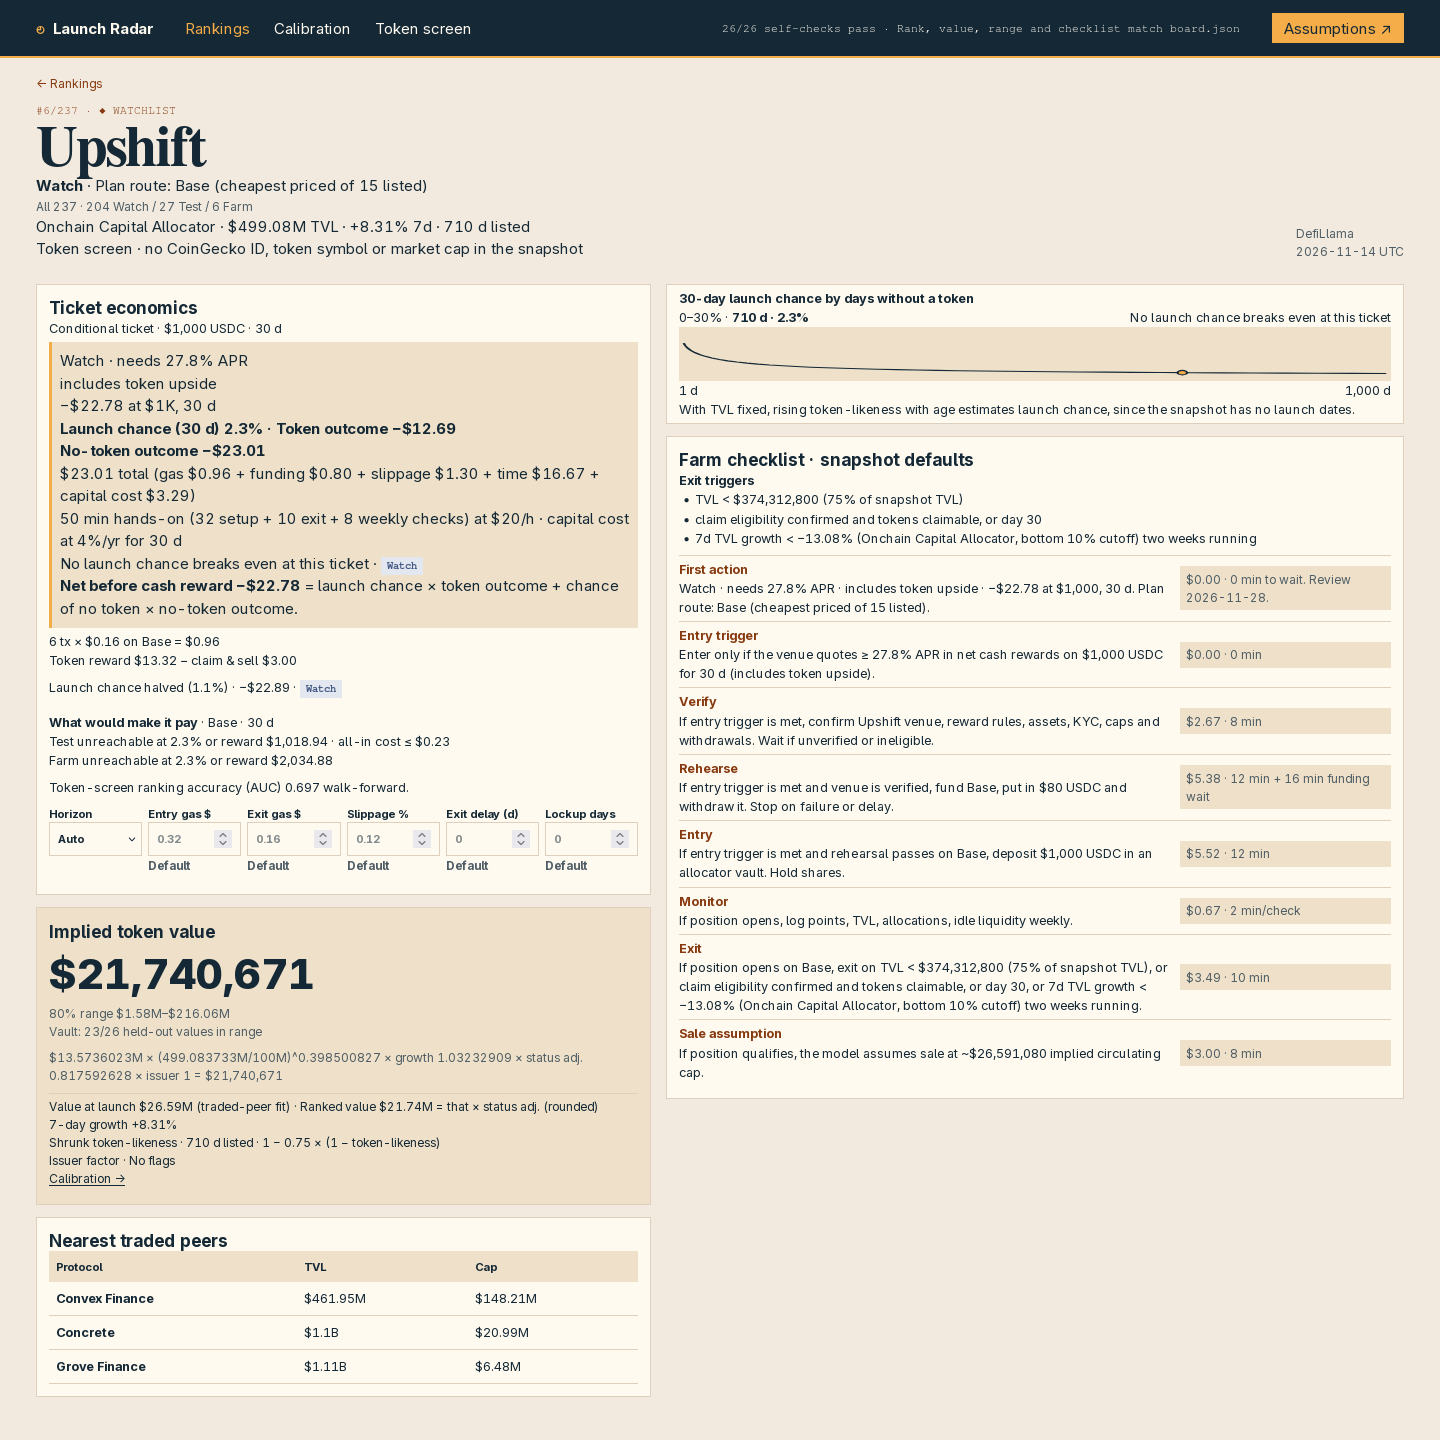
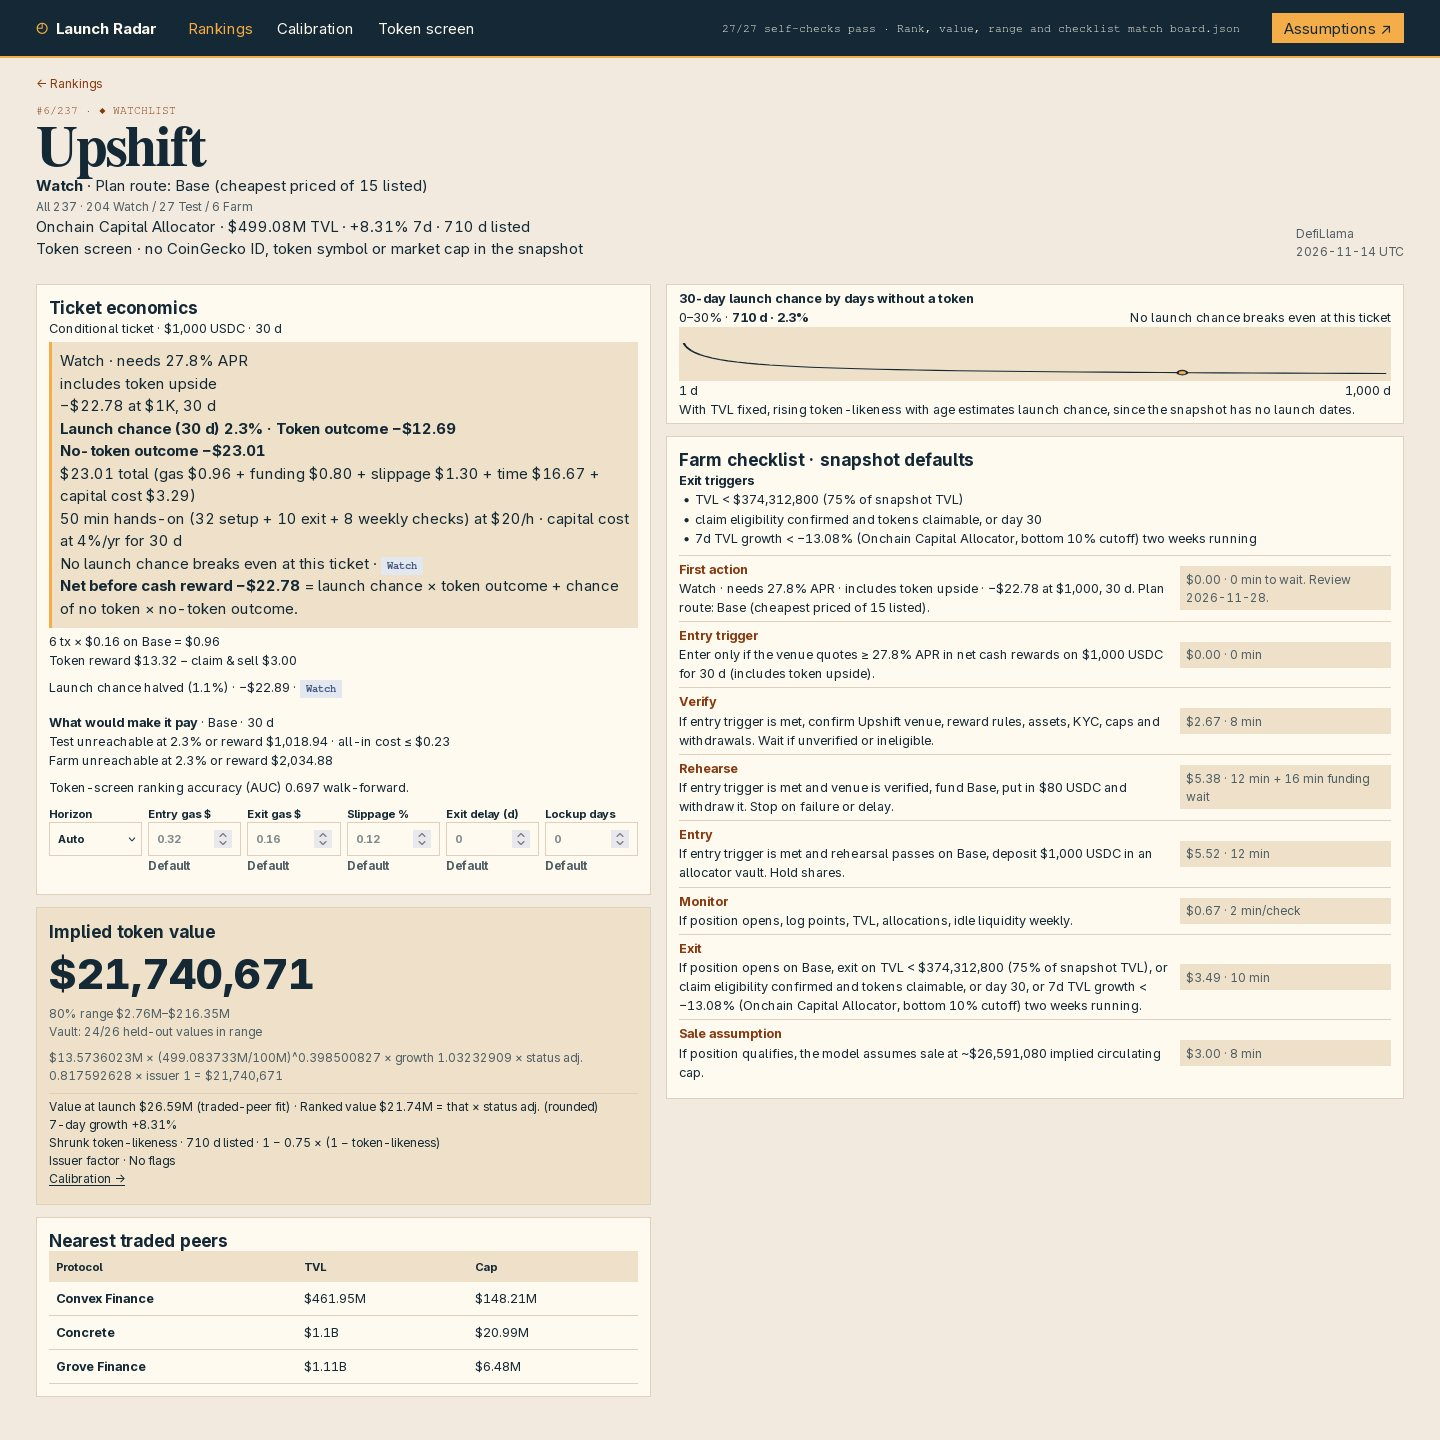
Ranges fitted on the shipped score per family; full per-term ablation
Per-family 80% ranges from training-only residuals of the shipped value (coverage 68% walk-forward 27/40, 78% family 68/87). Drop-one tests remove the term from both the cap fit and the token-likeness fit (TVL 4.015x/3.740x, growth 2.581x/3.229x, age 2.288x/3.180x vs full 2.440x/3.149x). Ranks and values unchanged; 27/27 self-checks.

diff --git a/dashboard/model.js b/dashboard/model.js
@@ -201,8 +201,8 @@ function accum({matrix,target},x,residual,weight=1){
 }
 
 function fitValue(pts,form,omit){
-	const age=form==="direct"||form==="pooled"?medianAge(pts):0,
-		families=form==="pooled"?unique(pts.map(p=>p.family)):[],
+	const age=omit!=="age"&&(form==="direct"||form==="pooled")?medianAge(pts):0,
+		families=age&&form==="pooled"?unique(pts.map(p=>p.family)):[],
 		shrink=sqrt(pts.length),fit={age,families,omit},
 		eq=normal([1e-8,1e-8+shrink,...(age?[shrink,...families.map(()=>4*shrink)]:[])])
 	for(const p of pts) accum(eq,capInputs(fit,p),p.response)
@@ -233,14 +233,28 @@ function folds(pts,walk,warmup=A.capWarmup){
 
 const blindTests=["loo","walk"]
 const medianMiss=es=>es.length?exp(quant(es.map(abs))):null
-const inside=(e,[lo,hi])=>lo<=e&&e<=hi,
-	band=[.1,.9],bandPct=round(100*(band[1]-band[0]))
-function fitBand(pts,form,levels=band){
-	const errors=folds(pts).flatMap(([train,test])=>{
-		const fit=fitValue(train,form)
-		return test.map(p=>p.response-capLog(fit,p))
-	})
-	return errors.length?levels.map(q=>quant(errors,q)):null
+const bandPct=80,levels=[.1,.9,.25,.75],byFamily=rs=>groupBy(rs,p=>p.family),
+	bandKind=(groups,f)=>groups[f]?.length>=8?f:"Other",
+	bandFor=(bounds,f)=>bounds[f]??bounds.Pooled
+function fitBands(rows){
+	const groups=byFamily(rows),kinds=groupBy(rows,r=>bandKind(groups,r.family)),
+		errors=rows.map(r=>r.shipped),pooled=levels.map(q=>quant(errors,q)??0),
+		local=record(keys(kinds),k=>{
+			const es=kinds[k].map(r=>r.shipped),n=es.length
+			return levels.map((q,i)=>(n*quant(es,q)+8*pooled[i])/(n+8))
+		})
+	return {...record(keys(groups),f=>local[bandKind(groups,f)]),Pooled:pooled}
+}
+function coverageFor(folds,groups){
+	const result={Pooled:{n:0,hits:0}}
+	for(const f of folds) if(f.inner.length) for(const {family,shipped} of f.rows){
+		const [lo,hi]=bandFor(f.bounds,family),kind=bandKind(groups,family)
+		for(const s of [result.Pooled,result[kind]??={n:0,hits:0}]){
+			s.n++
+			s.hits+=lo<=shipped&&shipped<=hi
+		}
+	}
+	return result
 }
 const forms={current:"Full token-likeness",direct:"Age power on cap",pooled:"Family-pooled age power",shrink:"Shrunk token-likeness"},
 	outerTerms={tvl:"TVL",growth:"7d growth",age:"Age"},
@@ -250,7 +264,7 @@ const forms={current:"Full token-likeness",direct:"Age power on cap",pooled:"Fam
 	splitsFor=(pts,k,warmup)=>k==="walk"?folds(pts,true,warmup):leaveOut(pts,p=>p.family),
 	mixFor=(form,w)=>form==="current"?1:form==="shrink"?w:0,
 	ageMul=(s,w)=>1-w*(1-s),
-	errFor=(fit,[p,s,h],w)=>p.response-log(score(exp(capLog(fit,p)),ageMul(s,w),h))
+	errFor=(fit,p,s,h,w)=>p.response-log(score(exp(capLog(fit,p)),ageMul(s,w),h))
 function training(test,recs,k){
 	const held=new Set(test.map(tokenKey))
 	return recs.filter(p=>!held.has(tokenKey(p))&&
@@ -260,20 +274,23 @@ function valueFolds(pts,recs,cache,warmup){
 	return record(schemes,k=>splitsFor(pts,k,warmup).map(([train,test])=>{
 		const eligible=training(test,recs,k),ratio=quant(train.map(p=>p.mcap_usd/p.tvl_usd)),
 			screen=eligible.filter(p=>!p.product),key=screen.map(p=>p.slug).join("\n"),
-			odds=cache.get(key)??fitOdds(screen),words=issuers(eligible)
+			odds=cache.get(key)??record(["full","tvl","age"],t=>fitOdds(screen,t)),words=issuers(eligible)
 		cache.set(key,odds)
-		return{family:test[0].family,train,eligible,
-			inputs:test.map(p=>[p,tokenOdds(odds,p),flagsFor(p,words).length?A.haircut:1]),
-			rows:test.map(p=>({slug:p.slug,flat:p.response-log(p.tvl_usd*ratio)}))}
+		return{train,eligible,odds,
+			inputs:test.map(p=>[p,tokenOdds(odds.full,p),flagsFor(p,words).length?A.haircut:1]),
+			rows:test.map(p=>({family:p.family,flat:p.response-log(p.tvl_usd*ratio)}))}
 	}))
 }
 const capForms=["current","direct","pooled"]
-function scoreFold({train,inputs,rows},kinds,omit){
-	const current=fitValue(train,"current",omit)
+function scoreRows({inputs,rows,odds},fit,w,key){
+	const screen=odds[fit.omit]
+	inputs.forEach(([p,s,h],i)=>rows[i][key]=errFor(fit,p,screen?tokenOdds(screen,p):s,h,w))
+}
+function scoreFold(fold,kinds,omit){
+	const current=fitValue(fold.train,"current",omit)
 	for(const k of kinds){
-		const fit=k==="direct"||k==="pooled"?fitValue(train,k,omit):current,
-			w=omit==="age"?0:k==="current"?1:+k||0
-		inputs.forEach((input,i)=>rows[i][k]=errFor(fit,input,w))
+		const fit=k==="direct"||k==="pooled"?fitValue(fold.train,k,omit):current
+		scoreRows(fold,fit,k==="current"?1:+k||0,k)
 	}
 }
 const foldRows=fs=>fs.flatMap(f=>f.rows),
@@ -286,23 +303,24 @@ const foldRows=fs=>fs.flatMap(f=>f.rows),
 	chooseForm=({flat,...scores})=>keys(scores).filter(f=>schemes.every(k=>scores[f]?.[k]!=null&&scores[f][k]<flat[k]))
 		.sort((a,b)=>scores[a].pooled-scores[b].pooled)[0]
 function innerScores(folds,omit){
-	const kinds=omit==="age"?["current"]:[...capForms,...weights]
+	const kinds=[...capForms,...weights]
 	for(const fold of values(folds).flat()) scoreFold(fold,kinds,omit)
 	return scoresFor(folds,["flat",...kinds])
 }
 const bestWeight=(scores,k)=>scores[weights[0]]?.[k]==null?.5:
 	weights.reduce((a,b)=>scores[b][k]<scores[a][k]?b:a)
-function confirm({train,inputs,rows},scores,omit){
+function confirm(fold,scores,omit){
 	const w=bestWeight(scores,"pooled"),{current,direct,pooled,flat}=scores,
 		form=chooseForm({current,direct,pooled,shrink:scores[w],flat})??"current",
-		fit=fitValue(train,form,omit),
-		weight=omit==="age"?0:mixFor(form,w)
-	inputs.forEach((input,i)=>rows[i][omit??"confirmed"]=errFor(fit,input,weight))
+		fit=fitValue(fold.train,form,omit)
+	if(omit) (fold.drop??={})[omit]=fit
+	scoreRows(fold,fit,mixFor(form,w),omit??"confirmed")
 }
 function valueTest(pts,recs){
 	const cache=new Map,tests=valueFolds(pts,recs,cache)
 	for(const [k,folds] of entries(tests)) for(const fold of folds){
 		const inner=valueFolds(fold.train,fold.eligible,cache,12),scores=innerScores(inner),w=bestWeight(scores,k)
+		fold.inner=inner.family
 		scoreFold(fold,[...capForms,w])
 		for(const row of fold.rows) row.shrink=row[w]
 		confirm(fold,scores)
@@ -310,34 +328,27 @@ function valueTest(pts,recs){
 	}
 	const candidates=scoresFor(tests,[...keys(forms),"flat"]),
 		winner=chooseForm(candidates),form=winner??"current",
-		weight=form==="shrink"?bestWeight(innerScores(valueFolds(pts,recs,cache,12)),"pooled"):mixFor(form,0),
+		inner=valueFolds(pts,recs,cache,12),
+		weight=form==="shrink"?bestWeight(innerScores(inner),"pooled"):mixFor(form,0),
 		fit=fitValue(pts,form),headline=confirmation(tests),
-		ablation=record(keys(outerTerms),k=>confirmation(tests,k)),
-		coverage={}
-	let n=0,hits=0
-	for(const fold of tests.family){
-		const {family,rows,train}=fold,bounds=fold.bounds=fitBand(train,form)
-		if(!bounds) continue
-		const size=rows.length,b=coverage[size<8?"Other":family]??={n:0,hits:0},
-			h=count(rows,r=>inside(r[form],bounds))
-		n+=size
-		hits+=h
-		b.n+=size
-		b.hits+=h
+		ablation=record(keys(outerTerms),k=>confirmation(tests,k)),groups=byFamily(pts),
+		ship=f=>scoreRows(f,f.bandFit=fitValue(f.train,form),weight,"shipped")
+	for(const fold of values(tests).flat()){
+		[fold,...fold.inner].forEach(ship)
+		fold.bounds=fitBands(foldRows(fold.inner))
 	}
-	const label=n?round(100*hits/n):null,
-		[lo,hi,midLo,midHi]=fitBand(pts,form,[...band,.25,.75])
-	return{tests,candidates,form,winner,weight,fit,headline,ablation,
-		ranges:{bounds:{[bandPct]:[lo,hi],50:[midLo,midHi]},hits,label,n,coverage}}
+	inner.family.forEach(ship)
+	return{tests,candidates,form,winner,weight,fit,headline,ablation,ranges:{
+		bounds:fitBands(foldRows(inner.family)),coverage:record(schemes,k=>coverageFor(tests[k],groups))}}
 }
 const confirmation=(tests,term="confirmed")=>record(schemes,k=>missStats(foldRows(tests[k]),term))
 const sigmoid=x=>1/(1+exp(-limit(x,-35,35))),
-	oddsInputs=(p,age)=>[1,p.rawSize,logAge(p,age)]
-function fitOdds(pts){
-	const age=medianAge(pts),
-		inputs=pts.map(p=>oddsInputs(p,age)),
-		pen=[1e-6,A.oddsRidge,A.oddsRidge]
-	let beta=zero(3)
+	oddsInputs=({age,omit},p)=>omit==="tvl"?[1,logAge(p,age)]:omit==="age"?[1,p.rawSize]:[1,p.rawSize,logAge(p,age)]
+function fitOdds(pts,omit){
+	const fit={age:omit==="age"?0:medianAge(pts),omit},
+		inputs=pts.map(p=>oddsInputs(fit,p)),
+		pen=omit==="tvl"||omit==="age"?[1e-6,A.oddsRidge]:[1e-6,A.oddsRidge,A.oddsRidge]
+	let beta=zero(pen.length)
 	for(let i=0;i<20;i++){
 		const eq=normal(pen)
 		eq.target=beta.map((c,j)=>-c*pen[j])
@@ -349,10 +360,10 @@ function fitOdds(pts){
 		beta=beta.map((c,j)=>c+delta[j])
 		if(max(...delta.map(abs))<1e-8) break
 	}
-	return{age,beta}
+	return{...fit,beta}
 }
 
-const tokenOdds=(fit,p)=>sigmoid(dot(oddsInputs(p,fit.age),fit.beta))
+const tokenOdds=(fit,p)=>sigmoid(dot(oddsInputs(fit,p),fit.beta))
 function launchAt(fit,p,h,d=p.ageDays??fit.age){
 	const at=ageDays=>tokenOdds(fit,{...p,ageDays}),s=at(d)
 	return max(0,(at(d+h)-s)/(1-s))
@@ -533,9 +544,8 @@ const inOrder=rs=>rs.every((p,i)=>p?.rank===i+1&&(!i||p.implied_value_usd<=rs[i-
 	validSteps=steps=>Array.isArray(steps)&&steps.length>=3&&steps.length<=12
 		&&steps.every(s=>typeof s==="string"&&/^.{20,600}$/s.test(s.trim())&&/\$\d.*\d+ min/u.test(s))
 function selfChecks({rows:rs,board,counts,recs,verdicts,stress,calibration,value,odds},snap,expectedDigest){
-	const {headline,tests,fit,form,weight,candidates,ranges:{hits,label,n}}=value,
-		capMap=new Map(calibration.map(p=>[p.slug,p])),
-		bands=tests.family.filter(f=>f.bounds),
+	const {headline,tests,fit,form,weight,candidates,ranges:{coverage}}=value,
+		outer=values(tests).flat(),
 		plans=rs.map(p=>p.plan),priced=plans.map(p=>p.trial??p),
 		watch=plans.filter(p=>p.verdict==="SKIP"),
 		samples=priced.filter(p=>p.pStar!==null&&p.q>0&&p.drop>0),close=(a,b)=>abs(a-b)<1e-8
@@ -558,11 +568,18 @@ function selfChecks({rows:rs,board,counts,recs,verdicts,stress,calibration,value
 		"outer candidate replay":form===(chooseForm(candidates)??"current")&&same(candidates,scoresFor(tests,keys(candidates))),
 		"training-only headline":same(headline,confirmation(tests))
 			&&values(tests).flat().every(f=>f.rows.every(r=>finite(r.confirmed))),
-		"outer band coverage label":n===foldRows(bands).length&&bands.every(({train,family,rows,bounds})=>
-			train.every(p=>p.family!==family)&&rows.every(r=>capMap.get(r.slug).family===family)
-				&&same(bounds,fitBand(train,form)))
-			&&hits===bands.flatMap(f=>f.rows.filter(r=>inside(r[form],f.bounds))).length
-			&&label===(n?round(100*hits/n):null),
+		"training-only shipped band residuals":outer.every(f=>{
+			const train=new Set(f.train)
+			return f.inner.every(g=>g.train.every(p=>train.has(p))&&g.inputs.every(([p])=>train.has(p)))
+				&&[f,...f.inner].every(g=>g.inputs.every(([p,s,h],i)=>
+					g.rows[i].shipped===p.response-log(score(exp(capLog(g.bandFit,p)),ageMul(s,weight),h))))
+				&&same(f.bounds,fitBands(foldRows(f.inner)))
+		}),
+		"family coverage sums":schemes.every(k=>{
+			const {Pooled,...kinds}=coverage[k],groups=values(kinds)
+			return Pooled.n===foldRows(tests[k].filter(f=>f.inner.length)).length
+				&&["n","hits"].every(key=>Pooled[key]===groups.reduce((sum,g)=>sum+g[key],0))
+		}),
 		"flagged plans":rs.every(p=>p.haircut===(p.flags.length?A.haircut:1)
 			&&(!p.flags.length||p.plan.verdict!=="FARM")),
 		"launch chance":plans.every(p=>values(p.chances).every((q,i,curve)=>q>=(curve[i-1]??0)&&q<=1)),
@@ -606,7 +623,12 @@ function selfChecks({rows:rs,board,counts,recs,verdicts,stress,calibration,value
 		})),
 		"drop-one folds and counts":keys(outerTerms).every(t=>same(value.ablation[t],confirmation(tests,t))
 			&&schemes.every(k=>value.ablation[t][k].n===headline[k].n
-				&&tests[k].every(f=>f.rows.every(r=>finite(r[t]))))),
+				&&tests[k].every(f=>f.rows.every(r=>finite(r[t]))))
+			&&outer.every(f=>{
+				const cap=f.drop[t],screen=f.odds[t]??f.odds.full,[p]=f.inputs[0],
+					q={...p,...(t==="age"?{ageDays:1}:t==="tvl"?{rawSize:2,size:3}:{growth:20,size:3})}
+				return cap.omit===t&&same(capInputs(cap,p),capInputs(cap,q))&&same(oddsInputs(screen,p),oddsInputs(screen,q))
+			})),
 		"board digest":digest(boardRows(rs))===expectedDigest
 	})]
 }
@@ -631,7 +653,8 @@ function buildModel(snap){
 		return{...row,plan:farmPlan(row,review,oddsFit,growth)}
 	}).sort(rankBy("score")).map((p,i)=>({...p,rank:i+1}))
 	for(const p of rs){
-		p.ranges=record(keys(bounds),k=>bounds[k].map(q=>p.score*exp(q)))
+		const [lo,hi,midLo,midHi]=bandFor(bounds,p.family).map(q=>p.score*exp(q))
+		p.ranges={[bandPct]:[lo,hi],50:[midLo,midHi]}
 		const fp=p.plan
 		p.edgePlans=fp.capital?p.ranges[bandPct].map(v=>priceFarm(fp,fp.capital,{share:v/p.score})):[]
 	}

diff --git a/dashboard/app.js b/dashboard/app.js
@@ -20,8 +20,9 @@ const {rows:rs,recs,counts:ns,verdicts,value,odds,assumptions:setup,board:{rows:
 	auc=k=>odds.validation[k].auc?.toFixed(3)??dash
 const aucLabel="Token-screen ranking accuracy (AUC)",
 	aucLine=`${aucLabel} ${auc("walk")} walk-forward`,
-	{headline,ablation,candidates,form,weight,ranges:{label,hits,n:bandN,coverage}}=value,
-	bandName=bandN?`${bandPct}% range`:"Uncalibrated range",
+	{headline,ablation,candidates,form,weight,ranges:{coverage}}=value,
+	bandName=coverage.family.Pooled.n?`${bandPct}% range`:"Uncalibrated range",
+	coveragePct=({n,hits})=>n?pct(hits/n,0):dash,
 	groups={traded:"traded",setAside:"set aside",recorded:"token, no cap",ranked:"ranked"},
 	choices=items=>["",...unique(items).sort()]
 const grades=keys(verdicts),actions=actionCounts(verdicts),
@@ -78,7 +79,7 @@ const valueStats=`<p class=nested>Form chosen inside training only</p>
 		const {miss,flat,n}=headline[k]
 		return`<div><span>${lbl} · n=${n}</span><strong>${mult(miss)}</strong> / ${mult(flat)}${miss!==null&&miss>=flat?"<small>Flat ratio ties or wins.</small>":""}</div>`
 	})}</div>
-<p class=coverage>${bandN?`${bandName} · Family holdout coverage ${label}% (${hits}/${bandN})`:"Range coverage unavailable"}</p>`
+<p class=coverage>${bandName} · Coverage ${coveragePct(coverage.walk.Pooled)} date / ${coveragePct(coverage.family.Pooled)} family</p>`
 const dropPairs=entries(outerTerms).map(([k,label])=>[label,...schemes.map(s=>mult(ablation[k][s].miss))]),
 	dropLine=`<p class=drop>Held out without · ${dropPairs.map(([label,...miss])=>label+" "+miss.join("/")).join(" · ")}</p>`
 const tokenLinks=(st,separator="")=>entries(groups).map(([k,label])=>
@@ -270,7 +271,7 @@ function detail(st,r){
 	const back=`<a class=back href="${href("board",st)}">← Rankings</a>`
 	if(!r) return back+intro("Unavailable")
 	const {plan:fp,ranges,edgePlans,family}=r,
-		kind=coverage[family]?family:"Other",band=coverage[kind]??{hits:0,n:0},
+		kind=coverage.family[family]?family:"Other",band=coverage.family[kind]??{hits:0,n:0},
 		tokenLine=r.reason==="watch"?`watchlist exception — kept despite ${r.nameRule||r.category}`:
 			`no CoinGecko ID, token symbol or ${r.mcap_usd==null?"":"positive "}market cap in the snapshot`,
 		summary=`${rowName(r)} · ${short(r.tvl_usd)} TVL · ${chg(r.change_7d)} 7d · ${days(r)} d listed<br><span id=token-reason>Token screen · ${esc(tokenLine)}</span>`,
@@ -304,11 +305,16 @@ function calibration(){
 			[label+(f===form?" · deployed":""),...tests.map(k=>mult(candidates[f][k]))])),
 		table=facts(["Model",...schemes.map(k=>`${outerTests[k]} · n=${headline[k].n}`)],[
 			["Full model",...schemes.map(k=>mult(headline[k].miss))],
-			...dropPairs.map(([label,...miss])=>["Without "+label+(label==="TVL"?" exponent":""),...miss])])
+			...dropPairs.map(([label,...miss])=>["Without "+label,...miss])]),
+		bands=facts(["Family",...values(outerTests)],keys(coverage.family).map(f=>[f,...schemes.map(k=>{
+			const b=coverage[k][f]
+			return b?.n?`${coveragePct(b)} (${b.hits}/${b.n})`:dash
+		})]))
 	return`${intro("Trading-token calibration")}
-${inset(missTitle,valueStats+`<p>Flat uses median training cap/TVL. Ranges use leave-one-out cap residuals.`)}
+${inset(missTitle,valueStats+`<p>Flat uses median training cap/TVL.`)}
 ${inset("Reference scores on outer folds",scores," candidates")}
 ${inset("Held-out median miss by omitted term",table," ablation")}
+${inset("80% range coverage",`<p>Fixed deployed formula. Training-only residuals, families under 8 pooled as Other, widths shrunk toward pooled.</p>`+bands," bands")}
 ${inset(oddsTitle,`<p class=likeness>${aucLine}. ${setup.timing}`)}`
 }
 const tokens=st=>`${intro("Token screen","Pre-token means no token recorded.")}
